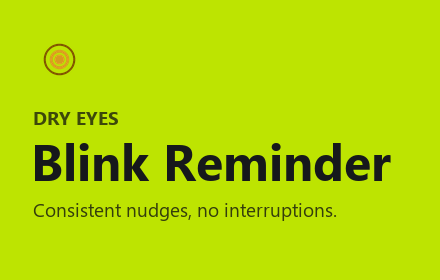
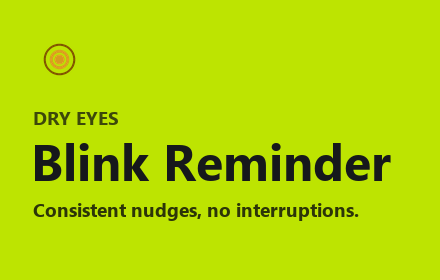
Store tiles: the tagline in bold
Regular weight at nineteen pixels disappeared in the list, which is the only
size that matters. Bold is wider, so the lime tile fits it rather than
setting it at a fixed size, and the dark tile's grey comes up to meet it.

Changed region(s): [[0.0591, 0.7143, 0.8273, 0.8]]

diff --git a/store/make_chrome_assets.py b/store/make_chrome_assets.py
@@ -267,7 +267,8 @@ def design_lime(w, h):
            fill=(60, 72, 10))
     d.text((pad - 2, h * 0.455),
            NAME, font=fit(d, NAME, True, int(h * 0.18), w - pad * 2), fill=INK)
-    d.text((pad, h * 0.70), NOTE, font=font(int(h * 0.068)), fill=(52, 62, 12))
+    d.text((pad, h * 0.70), NOTE,
+           font=fit(d, NOTE, True, int(h * 0.068), w - pad * 2), fill=(44, 53, 8))
     return c
 
 
@@ -289,10 +290,10 @@ def design_dark(w, h):
     # own comma instead -- two readable lines beat one nobody can see.
     want = int(h * 0.061)
     notes = [NOTE]
-    if d.textlength(NOTE, font=font(want)) > room:
+    if d.textlength(NOTE, font=font(want, True)) > room:
         head, tail = NOTE.split(", ", 1)
         notes = [head + ",", tail]
-    fnote = fit(d, max(notes, key=len), False, want, room)
+    fnote = fit(d, max(notes, key=len), True, want, room)
     eh = fe.getbbox(NAME_TOP)[3] - fe.getbbox(NAME_TOP)[1]
     nlh = int((fnote.getbbox("Hg")[3] - fnote.getbbox("Hg")[1]) * 1.34)
     nh = nlh * len(notes) - int(nlh * 0.34)
@@ -308,7 +309,7 @@ def design_dark(w, h):
         d.text((pad - 2, y + i * lh), line, font=fn, fill=(255, 255, 255))
     ny = y + lh * len(lines) + gap2
     for i, line in enumerate(notes):
-        d.text((pad, ny + i * nlh), line, font=fnote, fill=(176, 184, 194))
+        d.text((pad, ny + i * nlh), line, font=fnote, fill=(202, 209, 218))
     return c
 
 
